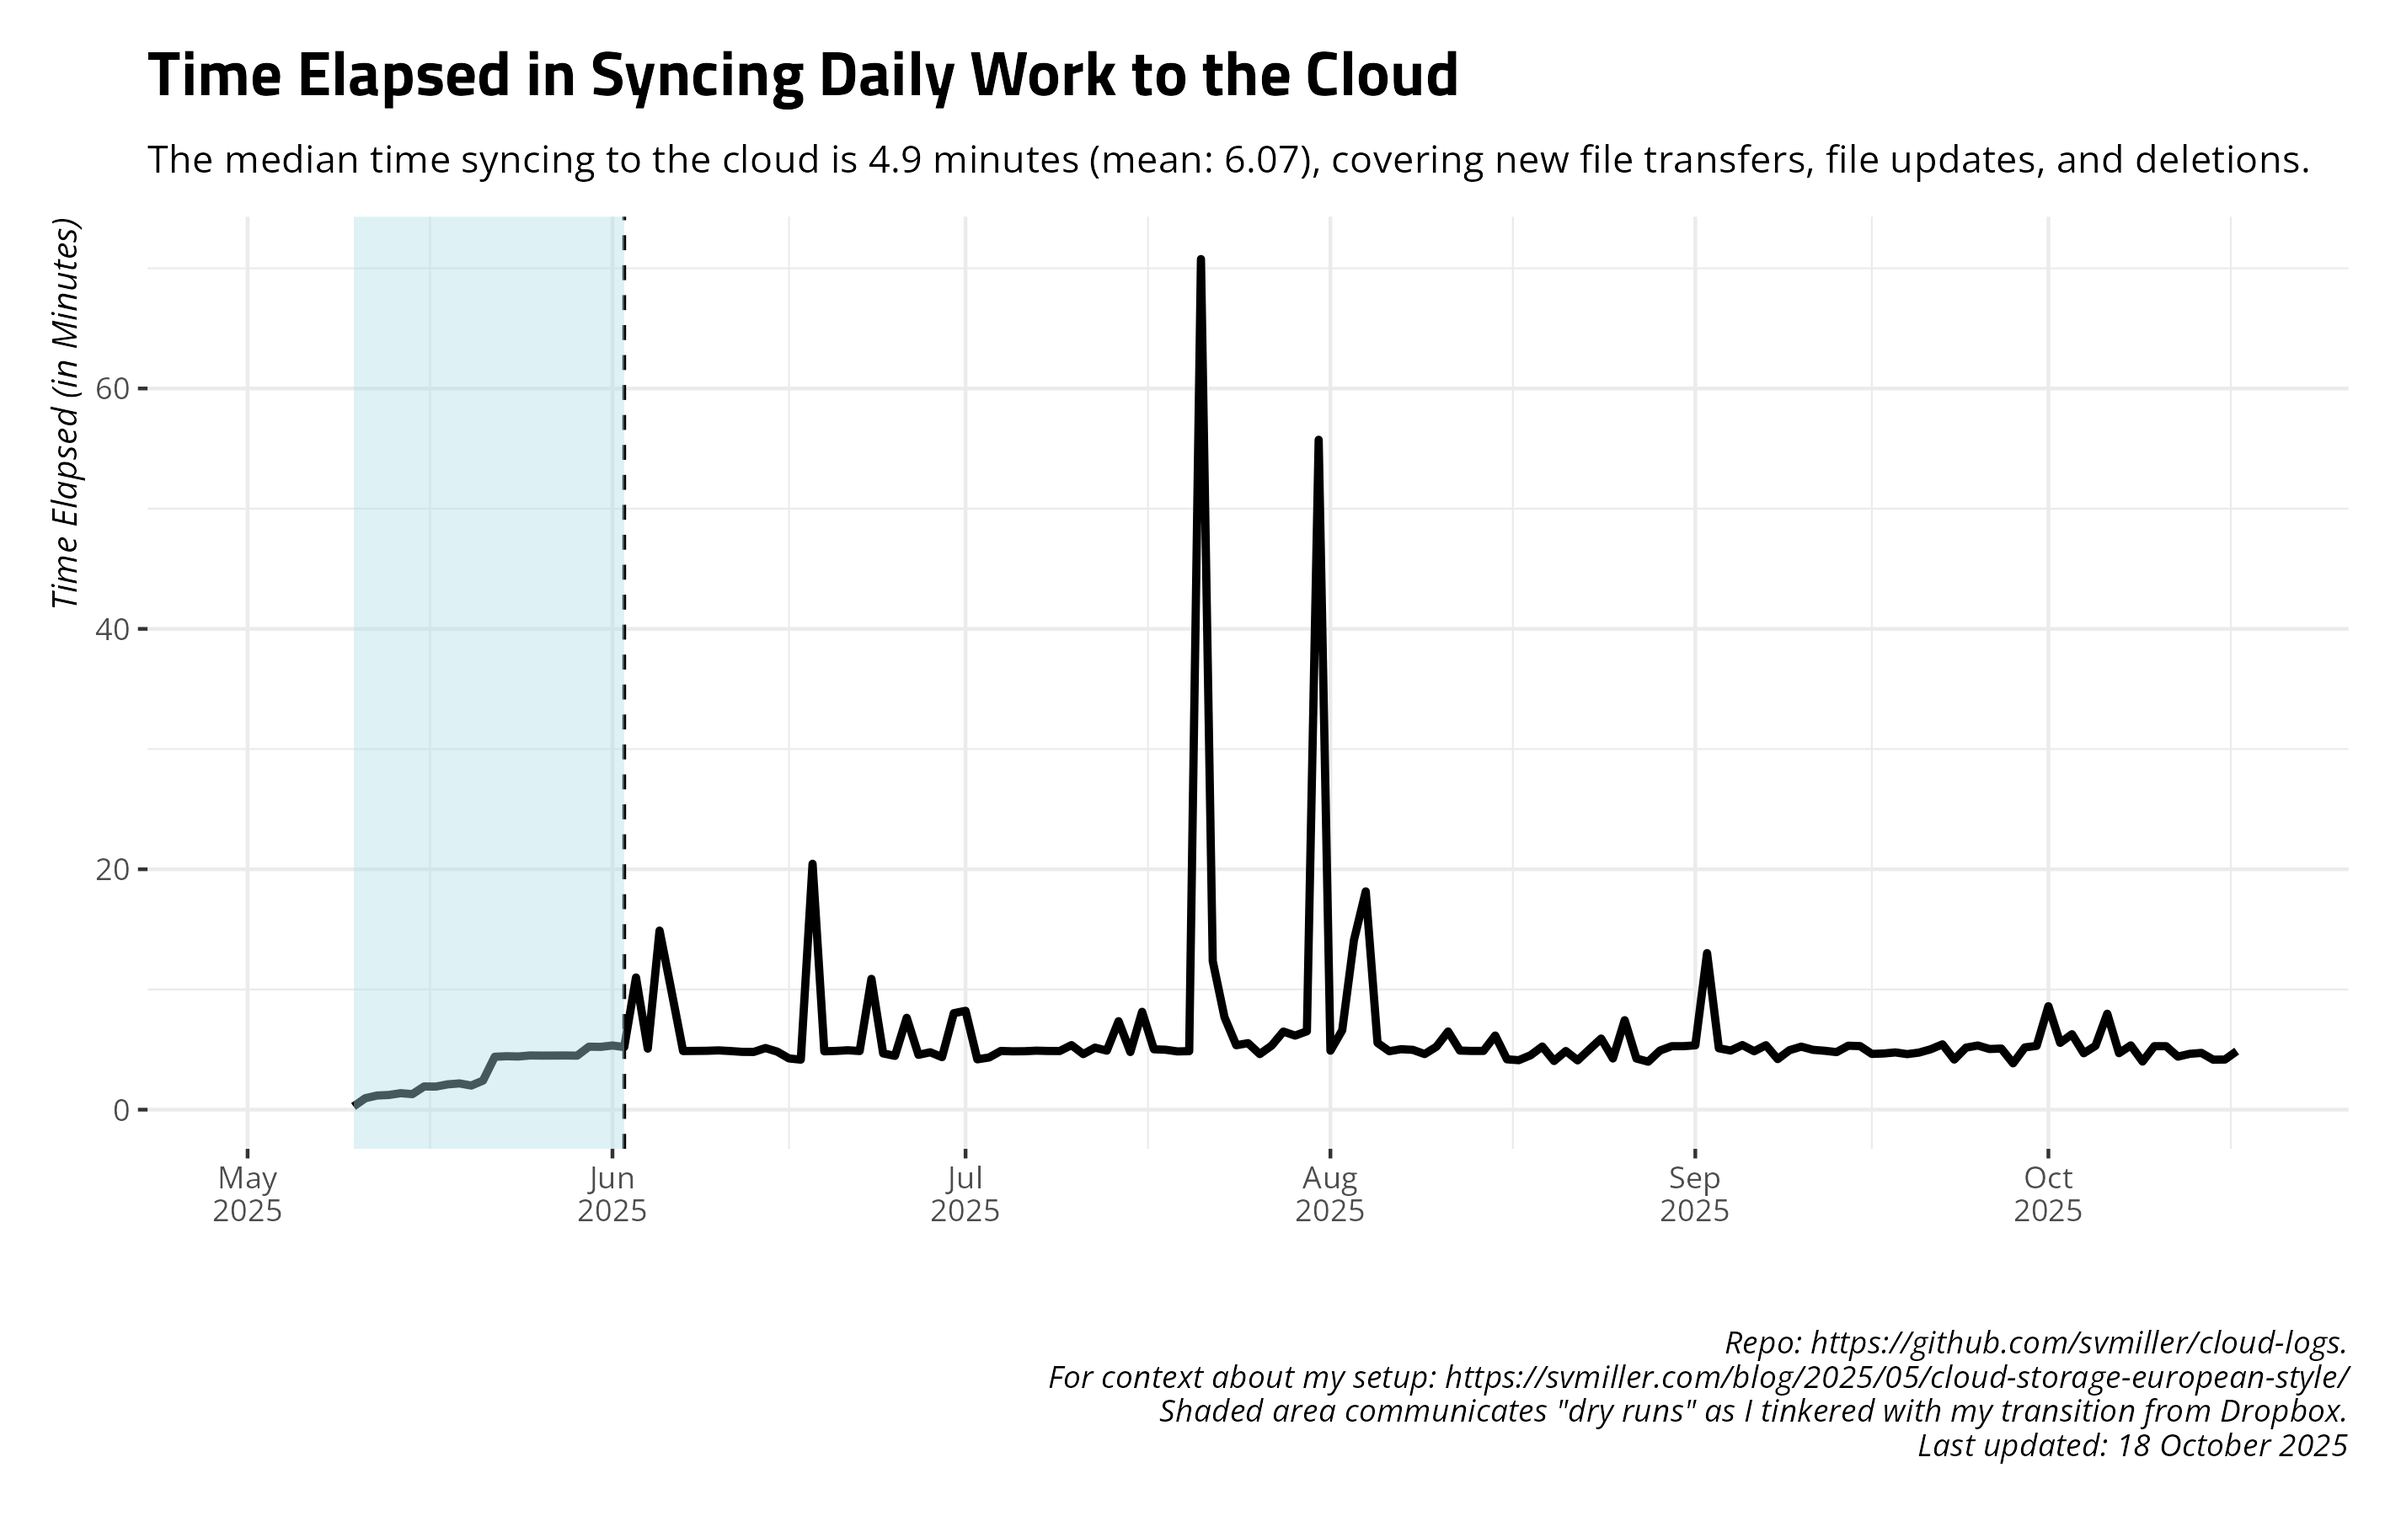
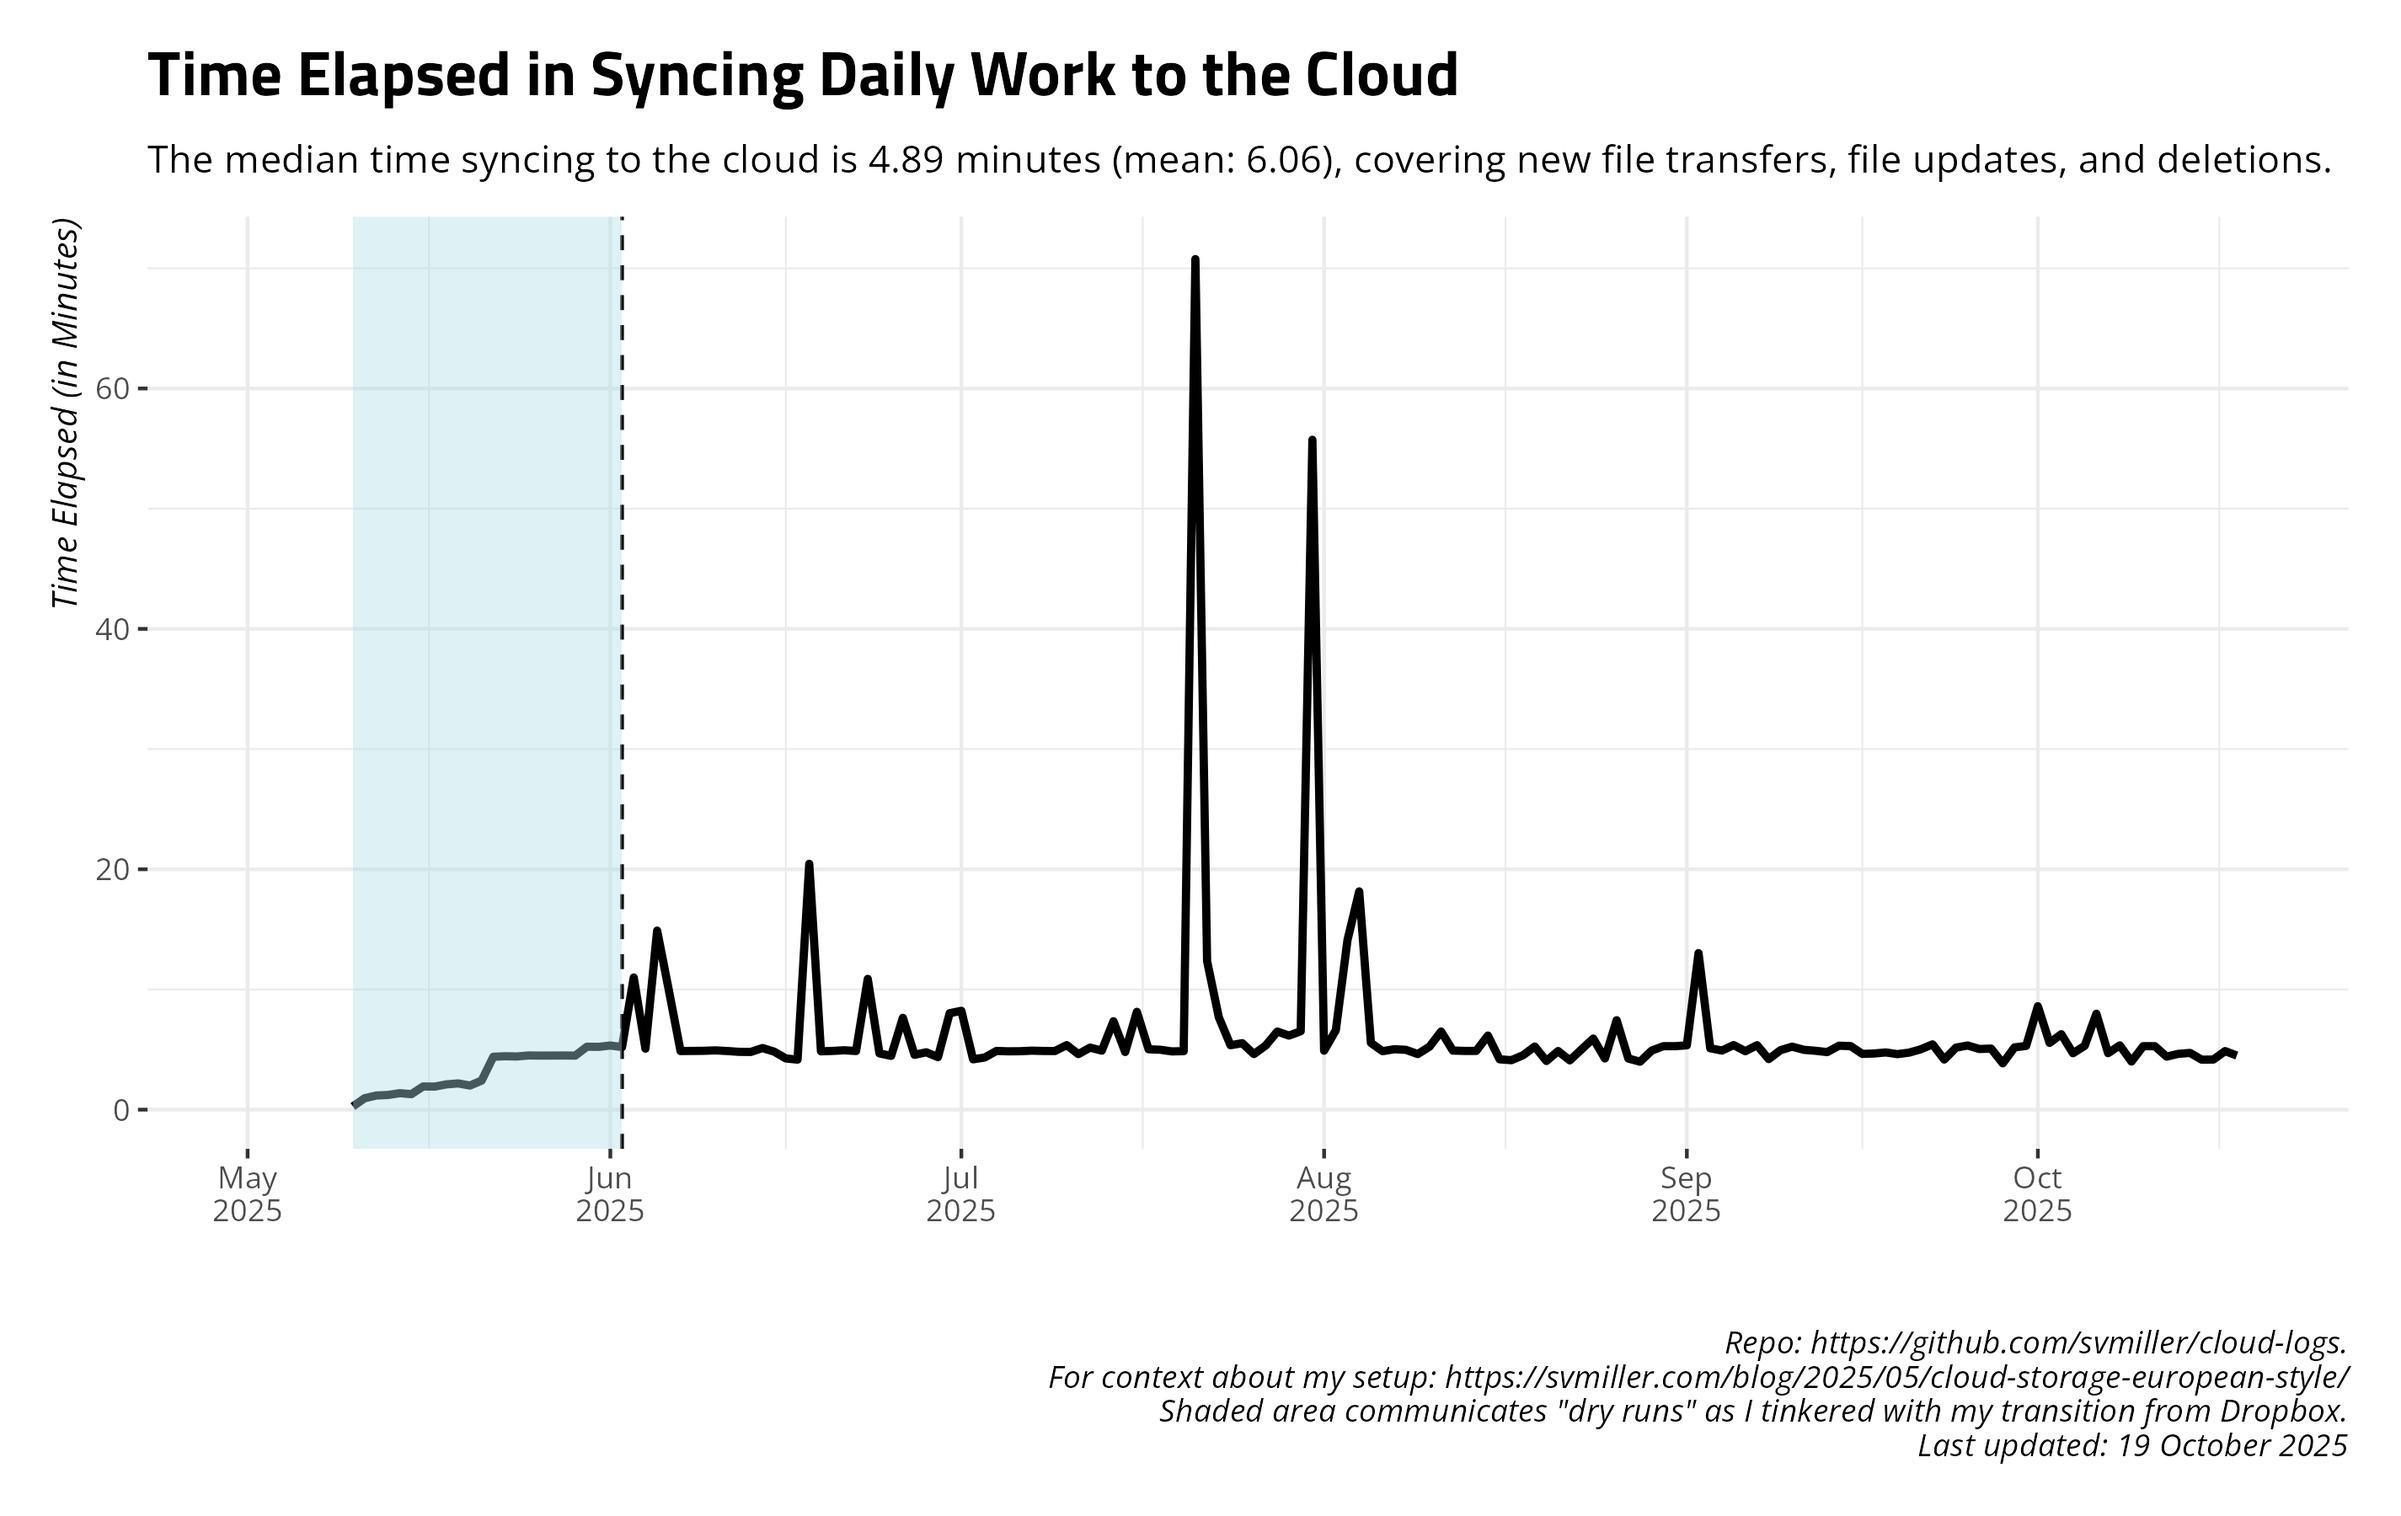
Date: 2025-10-19 09:00:16. Hi mom!

diff --git a/README.md b/README.md
@@ -27,17 +27,17 @@ and uploads to Github.
     #> # A tibble: 14 × 4
     #>    date       ftransfer stransfer   elapsed
     #>    <date>         <dbl> <chr>       <chr>  
-    #>  1 2025-10-04        26 501.970 KiB 4m41.6s
-    #>  2 2025-10-05       183 264.462 MiB 5m18.6s
-    #>  3 2025-10-06       240 27.655 MiB  7m58.9s
-    #>  4 2025-10-07       117 4.095 MiB   4m42.1s
-    #>  5 2025-10-08        47 591.214 KiB 5m20.9s
-    #>  6 2025-10-09        85 20.453 MiB  4m0.2s 
-    #>  7 2025-10-10        28 34.344 KiB  5m16.9s
-    #>  8 2025-10-11         0 <NA>        5m16.8s
-    #>  9 2025-10-12        19 111.027 KiB 4m24.8s
-    #> 10 2025-10-13       153 10.286 MiB  4m38.6s
-    #> 11 2025-10-14       157 6.146 MiB   4m43.3s
-    #> 12 2025-10-15       126 2.207 MiB   4m9.6s 
-    #> 13 2025-10-16        73 3.849 MiB   4m10.2s
-    #> 14 2025-10-17       113 3.125 MiB   4m52.3s
+    #>  1 2025-10-05       183 264.462 MiB 5m18.6s
+    #>  2 2025-10-06       240 27.655 MiB  7m58.9s
+    #>  3 2025-10-07       117 4.095 MiB   4m42.1s
+    #>  4 2025-10-08        47 591.214 KiB 5m20.9s
+    #>  5 2025-10-09        85 20.453 MiB  4m0.2s 
+    #>  6 2025-10-10        28 34.344 KiB  5m16.9s
+    #>  7 2025-10-11         0 <NA>        5m16.8s
+    #>  8 2025-10-12        19 111.027 KiB 4m24.8s
+    #>  9 2025-10-13       153 10.286 MiB  4m38.6s
+    #> 10 2025-10-14       157 6.146 MiB   4m43.3s
+    #> 11 2025-10-15       126 2.207 MiB   4m9.6s 
+    #> 12 2025-10-16        73 3.849 MiB   4m10.2s
+    #> 13 2025-10-17       113 3.125 MiB   4m52.3s
+    #> 14 2025-10-18        48 633.468 KiB 4m30.2s
